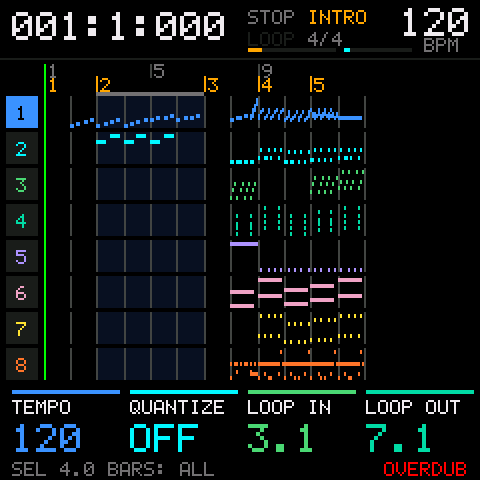
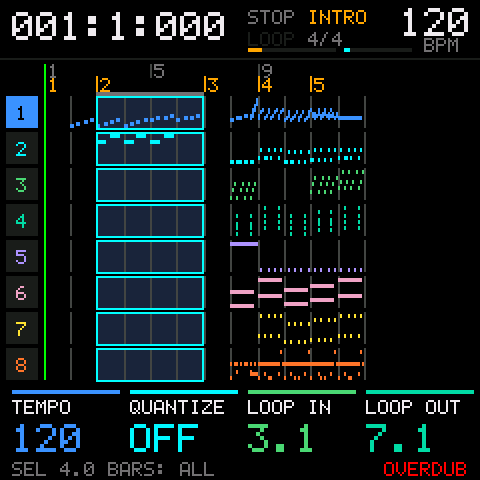
0.5.5: delete what's selected, paste over, a visible selection, GLO's mixer stays
SHIFT+E4 in the song view deleted the selected bars from every track, later
bars moving left. It now deletes what starts in the selection on the
selected tracks only, nothing moving (song_erase), and works in the clip
editor too. SHIFT+A3 pasted inserting and now pastes over, as SHIFT+B3
does, and Duplicate goes over the bars after the selection instead of
inserting. Either grows the song when it lands past the end (song_grow).
SHIFT+D4 is the one edit left that moves what follows.

The selection gets a cyan outline on each selected row, over notes and
blocks, its bottom edge in the gap below the row, and a lighter fill. The
paste outline stays white.

A held GLO on a song page opens the mixer, and it now stays up when GLO is
let go, the grid and the clip editor included. A GLO tap goes back.

Host tests cover erase, duplicate over and growth. Phase 3's paste and
delete checks follow the new behavior, phase 7 adds the song view's paste,
delete, outline and GLO checks, and phase rec samples a block below the
outline. New picture docs/phase7-selection.png.

Claude-Session: https://claude.ai/code/session_01Y9zi29XiKJp4ggRWq3oYqN

Changed region(s): [[0.1875, 0.1875, 0.4375, 0.8125]]

diff --git a/tests/test_edit.c b/tests/test_edit.c
@@ -169,23 +169,43 @@ static void test_arrange(void)
     CHECK_EQ(song.tempo[1].clock, 7U * 1920U);
     CHECK_EQ(song.markers, 1);
     CHECK_EQ(at(1, 6)->length, 960); /* bar 7's note stops at bar 8 */
-    /* Duplicate: 2 bars become 4, then 6, and the selection follows. */
+    /* Duplicate goes over what follows, which stays where it is (0.5.5): 2
+     * bars become 4 with the note after them still at bar 5, then 6 over
+     * it, and the selection follows. Another track is left alone. */
     fresh();
     for (unsigned i = 0; i < 4; ++i) song_add_note(&song, 3, i * 960U, 50 + i, 100, 240);
     song_add_note(&song, 3, 4U * 1920U, 70, 100, 240); /* after the selection */
+    song_add_note(&song, 0, 5U * 1920U, 80, 100, 240);
     uint32_t from = 0, end = 2U * 1920U;
     CHECK_EQ(song_duplicate(&song, 1U << 3, &from, &end), 0);
     CHECK_EQ(from, 2U * 1920U);
     CHECK_EQ(end, 4U * 1920U);
+    CHECK_EQ(count(3), 9);
+    CHECK(at(3, 8)->a == 70 && song_event_start(at(3, 8)) == 4U * 1920U);
     CHECK_EQ(song_duplicate(&song, 1U << 3, &from, &end), 0);
-    CHECK_EQ(count(3), 13);
-    CHECK_EQ(song_event_start(at(3, 8)), 4U * 1920U);
-    CHECK_EQ(at(3, 12)->a, 70);
-    CHECK_EQ(song_event_start(at(3, 12)), 8U * 1920U);
+    CHECK_EQ(count(3), 12);
+    CHECK(at(3, 8)->a == 50 && song_event_start(at(3, 8)) == 4U * 1920U); /* bar 5's note went under the copy */
+    CHECK(count(0) == 1 && song_event_start(at(0, 0)) == 5U * 1920U);
+    CHECK_EQ(song.bars, 16);
     /* Cut leaves the bars in place, empty. */
     CHECK_EQ(song_cut(&song, &clip, 1U << 3, 0, 1920U), 0);
-    CHECK_EQ(count(3), 11);
+    CHECK_EQ(count(3), 10);
     CHECK_EQ(song_event_start(at(3, 0)), 1920U);
+    /* Erase (delete, 0.5.5) empties the selected tracks there, copying
+     * nothing and moving nothing, and says when there was nothing. */
+    CHECK_EQ(song_erase(&song, 1U << 3 | 1U, 1920U, 2U * 1920U), 0);
+    CHECK(count(3) == 8 && song_event_start(at(3, 0)) == 2U * 1920U);
+    CHECK(count(0) == 1 && song_event_start(at(0, 0)) == 5U * 1920U);
+    CHECK_EQ(clip.length, 1920);
+    CHECK_EQ(song_erase(&song, 1U << 3, 1920U, 2U * 1920U), -1);
+    CHECK_EQ(song_erase(&song, 1U << 3, 1920U, 1920U), -1);
+    /* Near the end the song grows to hold a duplicate or a paste. */
+    from = 14U * 1920U, end = 16U * 1920U;
+    song_add_note(&song, 3, from, 60, 100, 240);
+    CHECK_EQ(song_duplicate(&song, 1U << 3, &from, &end), 0);
+    CHECK_EQ(song.bars, 18);
+    CHECK_EQ(song_paste(&song, &clip, 18U * 1920U + 960U, 3, 0), 0);
+    CHECK_EQ(song.bars, 20);
     /* A paste that doesn't fit changes nothing. */
     while (song.events < SONG_EVENTS) song_add_note(&song, 0, song.events * 30U, 60, 100, 30);
     uint64_t full = fingerprint(&song);

diff --git a/app/song/arrange.c b/app/song/arrange.c
@@ -83,6 +83,16 @@ SONG_SMALL int song_cut(struct song *s, struct song_clip *clip, unsigned tracks,
     clear(s, tracks, from, to);
     return 0;
 }
+SONG_SMALL int song_erase(struct song *s, unsigned tracks, uint32_t from, uint32_t to)
+{
+    if (from >= to || !in_range(s, tracks, from, to)) return -1;
+    clear(s, tracks, from, to);
+    return 0;
+}
+SONG_SMALL void song_grow(struct song *s, uint32_t to)
+{
+    while (!s->open && s->bars < SONG_MAX_BARS && song_bar_clock(s, s->bars) < to) ++s->bars;
+}
 SONG_SMALL int song_paste(struct song *s, const struct song_clip *clip, uint32_t at, unsigned track, unsigned insert)
 {
     unsigned single = clip->tracks && !(clip->tracks & (clip->tracks - 1U)), targets = single ? 1U << track : clip->tracks;
@@ -90,7 +100,10 @@ SONG_SMALL int song_paste(struct song *s, const struct song_clip *clip, uint32_t
     unsigned freed = insert ? 0 : in_range(s, targets, at, at + clip->length);
     if (s->events - freed + clip->count > SONG_EVENTS) return -1;
     if (insert) { if (song_insert_time(s, at, clip->length)) return -1; }
-    else clear(s, targets, at, at + clip->length);
+    else {
+        clear(s, targets, at, at + clip->length);
+        song_grow(s, at + clip->length);
+    }
     for (unsigned i = 0; i < clip->count; ++i) {
         struct song_event e = song_board_event(s, clip, i, at);
         (void)song_add_event(s, single ? track : clip->track[i], &e);
@@ -110,7 +123,10 @@ SONG_SMALL struct song_event song_board_event(struct song *s, const struct song_
 SONG_SMALL int song_duplicate(struct song *s, unsigned tracks, uint32_t *from, uint32_t *to)
 {
     uint32_t a = *from, b = *to, length = b - a;
-    if (a >= b || s->events + in_range(s, tracks, a, b) > SONG_EVENTS || song_insert_time(s, b, length)) return -1;
+    if (a >= b || b + length > SONG_MAX_CLOCK ||
+        s->events - in_range(s, tracks, b, b + length) + in_range(s, tracks, a, b) > SONG_EVENTS) return -1;
+    clear(s, tracks, b, b + length); /* over what follows, which stays where it is (0.5.5) */
+    song_grow(s, b + length);
     struct start_values v = {s, NULL, a, b, 0, 2};
     for (unsigned t = 0; t < SONG_TRACKS; ++t) {
         if (!(tracks >> t & 1U)) continue;

diff --git a/app/song/arrange.h b/app/song/arrange.h
@@ -21,12 +21,20 @@ struct song_clip {
 };
 int song_copy(const struct song *s, struct song_clip *clip, unsigned tracks, uint32_t from, uint32_t to);
 int song_cut(struct song *s, struct song_clip *clip, unsigned tracks, uint32_t from, uint32_t to);
-/* One copied track pastes onto `track`. Several paste back onto their own. */
+/* The selection's events go, as a cut leaves it, with nothing copied and
+ * nothing moving (0.5.5). -1 when there is nothing there. */
+int song_erase(struct song *s, unsigned tracks, uint32_t from, uint32_t to);
+/* The song grows to reach `to`, when something lands past its end. Not in
+ * an open clip, which keeps its length. */
+void song_grow(struct song *s, uint32_t to);
+/* One copied track pastes onto `track`. Several paste back onto their own.
+ * Over what's there, growing the song to fit, or inserting time. */
 int song_paste(struct song *s, const struct song_clip *clip, uint32_t at, unsigned track, unsigned insert);
 /* Clipboard event i moved `at` on, its glitch found in this song's table. */
 struct song_event song_board_event(struct song *s, const struct song_clip *clip, unsigned i, uint32_t at);
-/* Copy the selection to right after itself, inserting, and move the
- * selection onto the copy. */
+/* Copy the selection to right after itself, over what's there, which
+ * stays where it is (0.5.5, it inserted before), and move the selection
+ * onto the copy. The song grows to fit. */
 int song_duplicate(struct song *s, unsigned tracks, uint32_t *from, uint32_t *to);
 int song_insert_time(struct song *s, uint32_t at, uint32_t length);
 int song_delete_time(struct song *s, uint32_t from, uint32_t to);

diff --git a/app/version.h b/app/version.h
@@ -5,6 +5,6 @@
 #define FM1_RELEASE_VERSION "V14"
 #define FM1_UPDATE_PRODUCT "FM-1_8000014"
 /* song-mode: this fork's release (semver). The two above are FM1 Open's upstream base. */
-#define FM1_QY_VERSION "0.5.4"
+#define FM1_QY_VERSION "0.5.5"
 
 #endif

diff --git a/docs/user-guide.md b/docs/user-guide.md
@@ -20,7 +20,7 @@ the metronome is on. The key lights work as described below.
 | | SEL | Markers, delete, open a clip, depending on the page. SHIFT+SEL switches REC between REPLACE and OVERDUB |
 | | ENV, LFO | Loop and metronome, picking, depending on the page |
 | | EDIT | Sound editing, as in the stock firmware. SHIFT+EDIT opens the edit jobs |
-| | GLO | Song settings. A hold is still the stock mixer |
+| | GLO | Song settings. A hold opens the stock mixer, which stays when GLO is let go. A GLO tap there goes back |
 | | HOME, SAVE | Leave to the stock overview, and the song list |
 | | ARP | The arpeggiator, as on the stock pages: a tap turns it on or off, a hold opens its settings. In step entry, the glitch layer's pages |
 | | SEQ | The song view, and from there the clip grid |
@@ -138,11 +138,10 @@ SHIFT plus a key:
 |---|---|
 | F3 | Copy the selection |
 | G3 | Cut |
-| A3 | Paste at the playhead, inserting (later bars move right) |
-| B3 | Paste at the playhead, over what's there |
-| C4 | Duplicate: paste right after the selection and move the selection onto the copy |
+| A3, B3 | Paste at the playhead, over what's there. Nothing after it moves |
+| C4 | Duplicate: paste right after the selection, over what's there, and move the selection onto the copy |
 | D4 | Insert empty bars the length of the selection |
-| E4 | Delete the selected bars (later bars move left) |
+| E4 | Delete the selection: the notes, clip blocks and automation that start in it, on the selected tracks only. Nothing moves, and the other tracks are left alone |
 | D#4 | Clear the clipboard, and the paste outline with it |
 | F#3 | Mangle: scramble the 16ths in the selection |
 | G#3 | Mangle: reverse the note order |
@@ -550,7 +549,7 @@ the whole take is one undo step. SEQ waits while a performance is armed or runni
 
 **By hand.** Copy a cell in the grid (SHIFT+F3), go to the song view, and paste with SHIFT+A3 or SHIFT+B3. The
 block lands at the playhead, the clip's length long, and becomes the selection. SHIFT+C4 (Duplicate) then
-extends it. Copy, paste, insert and delete bars carry blocks as they carry notes. A grid copy only pastes
+extends it. Copy, paste, delete and insert bars carry blocks as they carry notes. A grid copy only pastes
 as a block into the song it came from.
 
 **Expand.** The EXPAND CLIPS job turns the blocks starting in its range into plain notes on their tracks, so

diff --git a/CHANGELOG.md b/CHANGELOG.md
@@ -2,6 +2,22 @@
 
 The version is `FM1_QY_VERSION` in `app/version.h` (semver), and each release is tagged `v<version>`.
 
+## 0.5.5
+
+- SHIFT+E4 in the song view deletes what's selected: the notes, clip blocks and automation that start in the
+  selection, on the selected tracks only. Nothing moves and the other tracks are left alone. It deleted the
+  bars from every track before, and later bars moved left. It works in the clip editor now too. With nothing
+  there, the bottom line says `NOTHING TO DELETE`.
+- Pasting no longer moves what comes after. SHIFT+A3 pasted inserting, pushing later bars right, and now
+  pastes over what's there, as SHIFT+B3 does. Duplicate (SHIFT+C4) goes over the bars after the selection
+  instead of inserting. Either one past the song's end grows the song to fit. SHIFT+D4 still inserts bars,
+  on every track, the one edit that moves what follows.
+- The selection is easier to see: a cyan outline around it on each selected track, over the notes and clip
+  blocks, and a lighter fill. The paste outline stays white.
+- A held GLO opens the mixer, and now it stays up when GLO is let go, from any song page, the grid and the clip
+  editor included. A GLO tap there goes back to the page you were on. A tap of GLO on a song page still opens
+  the song settings.
+
 ## 0.5.4
 
 - SHIFT+D#4 clears the clipboard, in the song view, the clip editor and the grid, and the song view's paste

diff --git a/docs/song-mode-design.md b/docs/song-mode-design.md
@@ -185,11 +185,11 @@ pressing keys picks notes. Notes and automation are copied together.
 |---|---|
 | F3 | Copy the selection |
 | G3 | Cut |
-| A3 | Paste at the playhead, inserting (later bars move right) |
+| A3 | Paste at the playhead, replacing what's there. Until 0.5.5 it inserted, and later bars moved right |
 | B3 | Paste at the playhead, replacing what's there |
-| C4 | Duplicate: paste right after the selection and move the selection along, so repeated presses keep extending (4 bars become 8, then 12) |
+| C4 | Duplicate: paste right after the selection, replacing what's there (inserting until 0.5.5), and move the selection along, so repeated presses keep extending (4 bars become 8, then 12) |
 | D4 | Insert empty bars the length of the selection |
-| E4 | Delete the selected bars (later bars move left) |
+| E4 | Delete the selection on the selected tracks, leaving the bars in place (0.5.5). Until then it deleted the bars from every track and later bars moved left |
 
 **Where a paste lands.** Paste always goes to the playhead, which can be anywhere: move it with PRESETS by
 the current snap (marker to marker with SHIFT), or jump to a marker, then paste. A selection that

diff --git a/README.md b/README.md
@@ -66,8 +66,8 @@ The full build and the preview have all of these. The [user guide](docs/user-gui
 **Real-time recording and arranging**
 - Replace, overdub, punch and loop recording, count-in, metronome, and input quantize with a strength that
   can be changed after the take.
-- The loop region is the selection. Copy, cut, paste (inserting or over), duplicate, insert and delete bars,
-  across tracks and between songs.
+- The loop region is the selection. Copy, cut, paste, duplicate, delete and insert bars,
+  across tracks and between songs. Only inserting bars moves what follows.
 - Up to 64 levels of undo and redo.
 
 **Automation**
